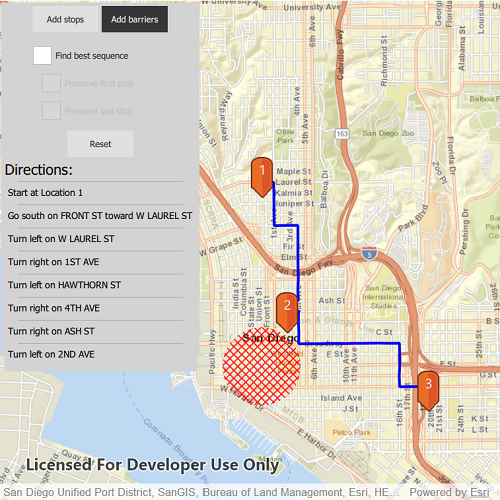
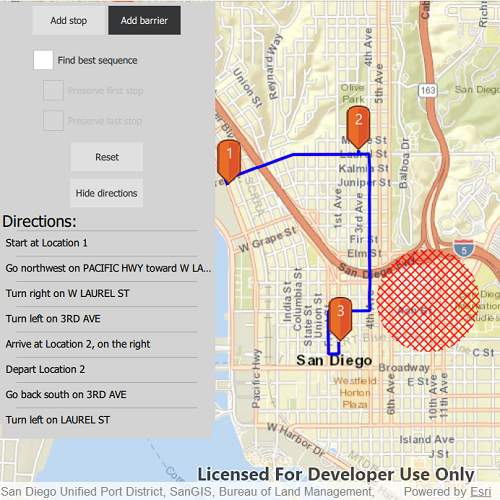
edit route around barriers (#1084)

diff --git a/ArcGISRuntimeSDKQt_QMLSamples/Routing/RouteAroundBarriers/RouteAroundBarriers.qml b/ArcGISRuntimeSDKQt_QMLSamples/Routing/RouteAroundBarriers/RouteAroundBarriers.qml
@@ -82,6 +82,9 @@ Rectangle {
         PictureMarkerSymbol {
             id: pinSymbol
             url: pinUrl
+            height: 50
+            width: 50
+            offsetY: height/2
         }
 
         GraphicsOverlay {
@@ -307,6 +310,21 @@ Rectangle {
                             }
                         }
                     }
+                    Row {
+                        Layout.alignment: Qt.AlignHCenter
+                        Button {
+                            text: "Hide directions"
+                            onClicked: {
+                                if (text === "Hide directions") {
+                                    directionsView.delegate = blankDelegate;
+                                    text = "Show directions";
+                                } else {
+                                    directionsView.delegate = directionDelegate;
+                                    text = "Hide directions";
+                                }
+                            }
+                        }
+                    }
                 }
             }
 
@@ -342,6 +360,15 @@ Rectangle {
                 }
             }
 
+        }
+    }
+
+    Component {
+        id: blankDelegate
+        Rectangle {
+            width: parent.width
+            height: 35
+            color: directionWindow.color
         }
     }
 

diff --git a/ArcGISRuntimeSDKQt_CppSamples/Routing/RouteAroundBarriers/RouteAroundBarriers.qml b/ArcGISRuntimeSDKQt_CppSamples/Routing/RouteAroundBarriers/RouteAroundBarriers.qml
@@ -124,6 +124,22 @@ Item {
                             }
                         }
                     }
+
+                    Row {
+                        Layout.alignment: Qt.AlignHCenter
+                        Button {
+                            text: "Hide directions"
+                            onClicked: {
+                                if (text === "Hide directions") {
+                                    directionsView.delegate = blankDelegate;
+                                    text = "Show directions";
+                                } else {
+                                    directionsView.delegate = directionDelegate;
+                                    text = "Hide directions";
+                                }
+                            }
+                        }
+                    }
                 }
             }
 
@@ -159,6 +175,15 @@ Item {
                     }
                 }
             }
+        }
+    }
+
+    Component {
+        id: blankDelegate
+        Rectangle {
+            width: parent.width
+            height: 35
+            color: directionWindow.color
         }
     }
 

diff --git a/ArcGISRuntimeSDKQt_CppSamples/Routing/RouteAroundBarriers/RouteAroundBarriers.cpp b/ArcGISRuntimeSDKQt_CppSamples/Routing/RouteAroundBarriers/RouteAroundBarriers.cpp
@@ -63,6 +63,9 @@ RouteAroundBarriers::RouteAroundBarriers(QObject* parent /* = nullptr */):
   m_routeOverlay->setRenderer(routeRenderer);
 
   m_pinSymbol = new PictureMarkerSymbol(pinUrl, this);
+  m_pinSymbol->setHeight(50);
+  m_pinSymbol->setWidth(50);
+  m_pinSymbol->setOffsetY(m_pinSymbol->height() / 2);
 
   // create route task
   m_routeTask = new RouteTask(routeTaskUrl, this);
